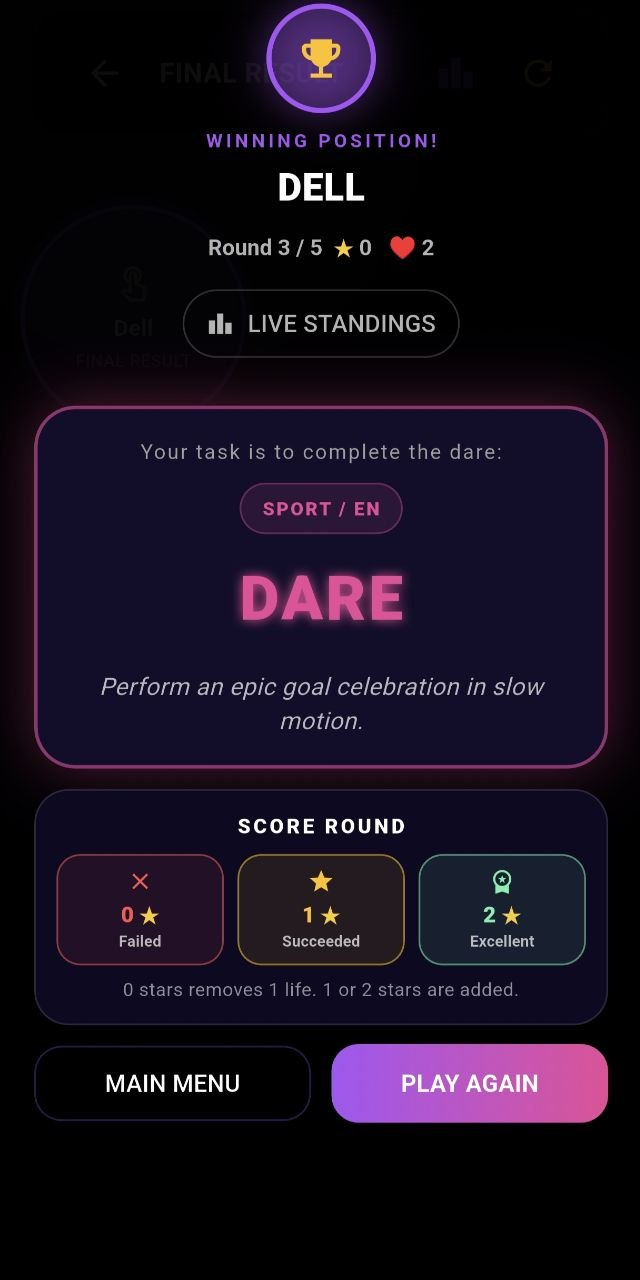
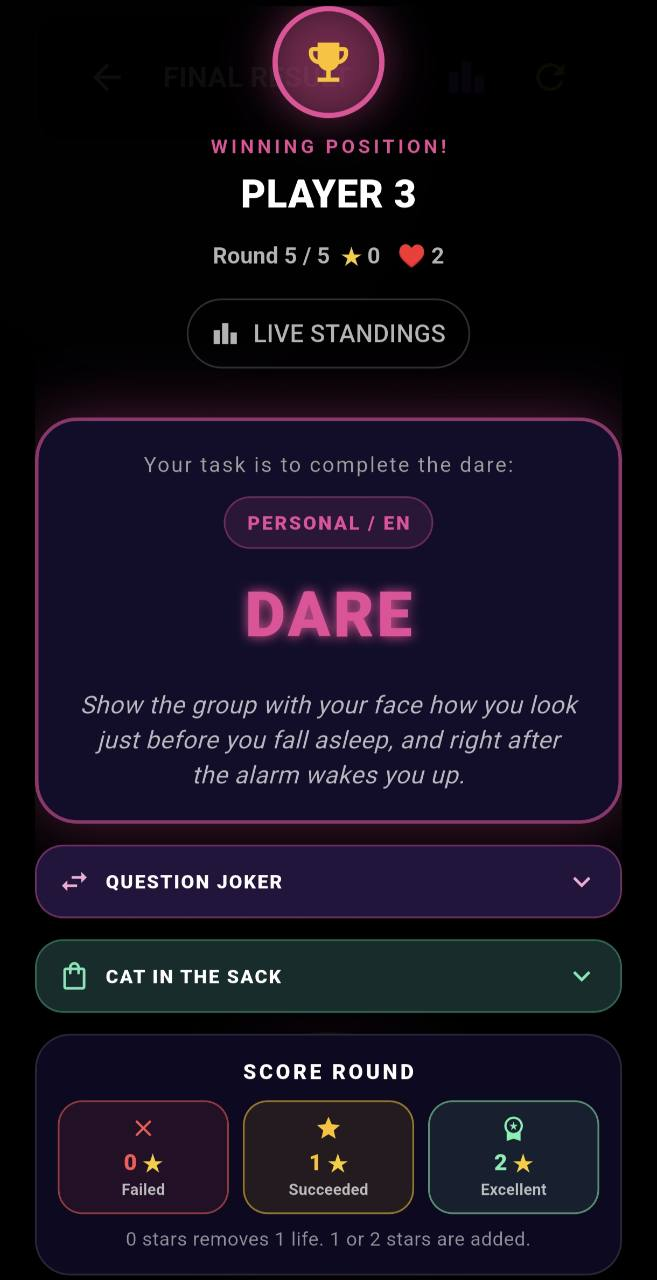
Update site for current VendyPick game

diff --git a/index.html b/index.html
@@ -338,16 +338,16 @@
       <div class="split">
         <div class="art">
           <img class="shot" src="screenshots/dare.jpg" width="640" height="1280" loading="lazy" decoding="async"
-               alt="VendyPick round result: a Dare prompt 'Perform an epic goal celebration in slow motion' with a Score Round panel offering 0, 1 or 2 stars.">
+               alt="VendyPick round result showing a Dare prompt, the Question Joker, Cat in the Sack, and the Score Round panel.">
         </div>
         <div class="copy">
           <h2>Every round, a new challenge</h2>
           <p class="sub">One player is picked, gets a Truth or Dare prompt from the categories you enabled, and the group decides how it went.</p>
           <ul class="checklist">
-            <li><span class="tick">✓</span><span><b>Truth or Dare</b> — a fresh prompt every round, never repeated in the same game.</span></li>
-            <li><span class="tick">✓</span><span><b>Score together</b> — the group awards 0, 1 or 2 stars.</span></li>
-            <li><span class="tick">✓</span><span><b>Stars &amp; lives</b> — 0 stars costs a life; the last player standing wins.</span></li>
-            <li><span class="tick">✓</span><span><b>The Joker</b> — from round two, spend a life to make sure you get picked.</span></li>
+            <li><span class="tick">&#10003;</span><span><b>Truth or Dare</b> &mdash; a fresh prompt every round, never repeated in the same game.</span></li>
+            <li><span class="tick">&#10003;</span><span><b>Score together</b> &mdash; the group awards 0, 1 or 2 stars.</span></li>
+            <li><span class="tick">&#10003;</span><span><b>Stars &amp; lives</b> &mdash; 0 stars removes 1 life; 1 or 2 stars are added.</span></li>
+            <li><span class="tick">&#10003;</span><span><b>Three jokers</b> &mdash; use the Player Joker, Question Joker or Cat in the Sack when the moment calls for it.</span></li>
           </ul>
         </div>
       </div>
@@ -359,16 +359,16 @@
       <div class="split">
         <div class="art">
           <img class="shot" src="screenshots/menu.jpg" width="645" height="1104" style="aspect-ratio:645/1104" loading="lazy" decoding="async"
-               alt="VendyPick setup screen: choose the number of players from 2 to 10 and the number of rounds.">
+               alt="VendyPick setup screen showing player choices from 2 to 10 and round choices from 3 to 30.">
         </div>
         <div class="copy">
           <h2>Set up in seconds</h2>
-          <p class="sub">Open the app, pick your settings, and you're playing. No sign-up, no tutorial.</p>
+          <p class="sub">Open the app, pick your settings, and you are playing. No sign-up, no tutorial.</p>
           <ul class="checklist">
-            <li><span class="tick">✓</span><span><b>Players</b> — anywhere from 2 to 10 on one phone.</span></li>
-            <li><span class="tick">✓</span><span><b>Rounds &amp; lives</b> — choose 3, 5, 7 or 10 rounds and 1–3 lives each.</span></li>
-            <li><span class="tick">✓</span><span><b>Categories</b> — switch the question worlds on and off to match the room.</span></li>
-            <li><span class="tick">✓</span><span><b>Language</b> — play in any of eight languages.</span></li>
+            <li><span class="tick">&#10003;</span><span><b>Players</b> &mdash; anywhere from 2 to 10 on one phone.</span></li>
+            <li><span class="tick">&#10003;</span><span><b>Rounds &amp; lives</b> &mdash; choose 3, 5, 7, 10, 15, 20, 25 or 30 rounds and 1&ndash;3 lives each.</span></li>
+            <li><span class="tick">&#10003;</span><span><b>Categories</b> &mdash; switch the question worlds on and off to match the room.</span></li>
+            <li><span class="tick">&#10003;</span><span><b>Language</b> &mdash; play in any of eight languages.</span></li>
           </ul>
         </div>
       </div>
@@ -378,14 +378,14 @@
   <section id="features">
     <div class="wrap">
       <h2>What's inside</h2>
-      <p class="sub">A big, hand-localized question bank and the little rules that keep a party moving.</p>
+      <p class="sub">A large localized prompt catalog, flexible game rules, and three tactical jokers for every group.</p>
       <div class="grid">
-        <div class="card" style="--acc:#A855F7; --d:0s"><div class="ic">👆</div><h3>Finger-picker fun</h3><p>Fair, hands-on random selection that everyone can see happen — no hidden shuffling.</p></div>
-        <div class="card" style="--acc:#22D3EE; --d:.25s"><div class="ic">🗣️</div><h3>Thousands of prompts</h3><p>More than 2,700 questions across eight languages, each set hand-localized to feel natural — not machine-translated.</p></div>
-        <div class="card" style="--acc:#EC4899; --d:.5s"><div class="ic">🎚️</div><h3>Your rules</h3><p>2–10 players, 3 / 5 / 7 / 10 rounds, 1–3 lives, and category worlds you switch on and off.</p></div>
-        <div class="card" style="--acc:#F59E0B; --d:.75s"><div class="ic">⭐</div><h3>Stars &amp; lives</h3><p>Rounds are scored 0–2 stars. Lose a star too many and you lose a life — last one standing wins.</p></div>
-        <div class="card" style="--acc:#34D399; --d:1s"><div class="ic">🃏</div><h3>The Joker</h3><p>Once per game from round two, spend a life to guarantee you get picked — high risk, high reward.</p></div>
-        <div class="card" style="--acc:#60A5FA; --d:1.25s"><div class="ic">📴</div><h3>Offline &amp; private</h3><p>Plays entirely on your device. No account, no ads, no tracking, no internet needed.</p></div>
+        <div class="card" style="--acc:#A855F7; --d:0s"><div class="ic">&#128072;</div><h3>Finger-picker fun</h3><p>Fair, hands-on random selection that everyone can see happen &mdash; no hidden shuffling.</p></div>
+        <div class="card" style="--acc:#22D3EE; --d:.25s"><div class="ic">&#128172;</div><h3>6,864 localized prompts</h3><p>858 prompts in each of eight languages, with Truth and Dare content selected from the categories you enable.</p></div>
+        <div class="card" style="--acc:#EC4899; --d:.5s"><div class="ic">&#127922;</div><h3>Your rules</h3><p>2&ndash;10 players, 3&ndash;30 rounds, 1&ndash;3 lives, and five question worlds with switchable categories.</p></div>
+        <div class="card" style="--acc:#F59E0B; --d:.75s"><div class="ic">&#11088;</div><h3>Stars &amp; lives</h3><p>Score each round from 0 to 2 stars. A 0-star result removes 1 life; 1 or 2 stars add stars to the standings.</p></div>
+        <div class="card" style="--acc:#34D399; --d:1s"><div class="ic">&#127183;</div><h3>Three jokers</h3><p>Player Joker guarantees the pick, Question Joker passes a question to another active player, and Cat in the Sack gives you a new prompt.</p></div>
+        <div class="card" style="--acc:#60A5FA; --d:1.25s"><div class="ic">&#128683;</div><h3>Offline &amp; private</h3><p>Plays entirely on your device. No account, no ads, no tracking, no internet needed.</p></div>
       </div>
     </div>
   </section>